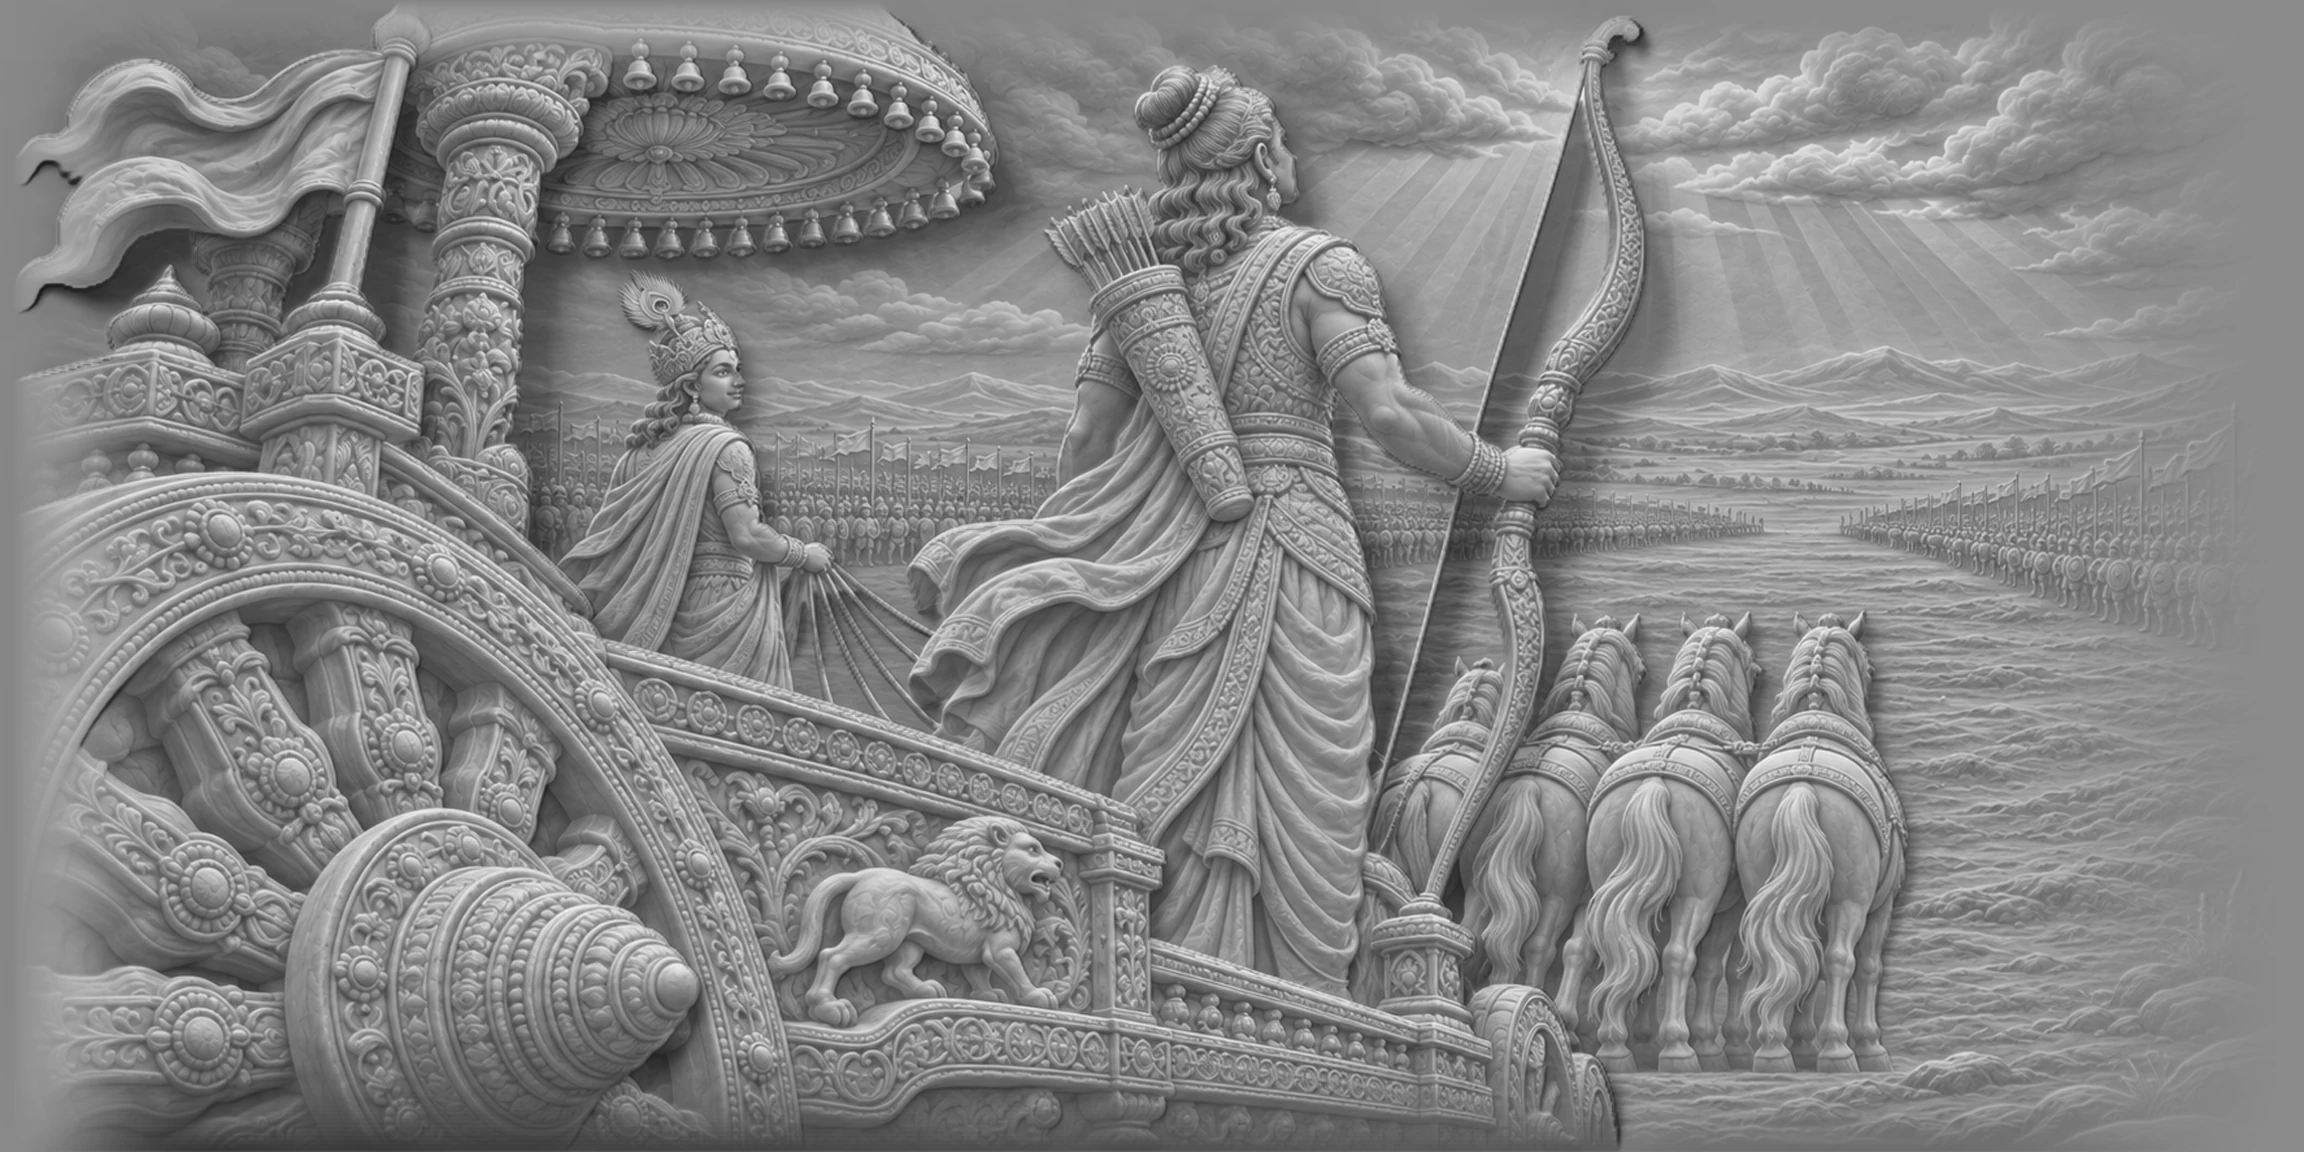
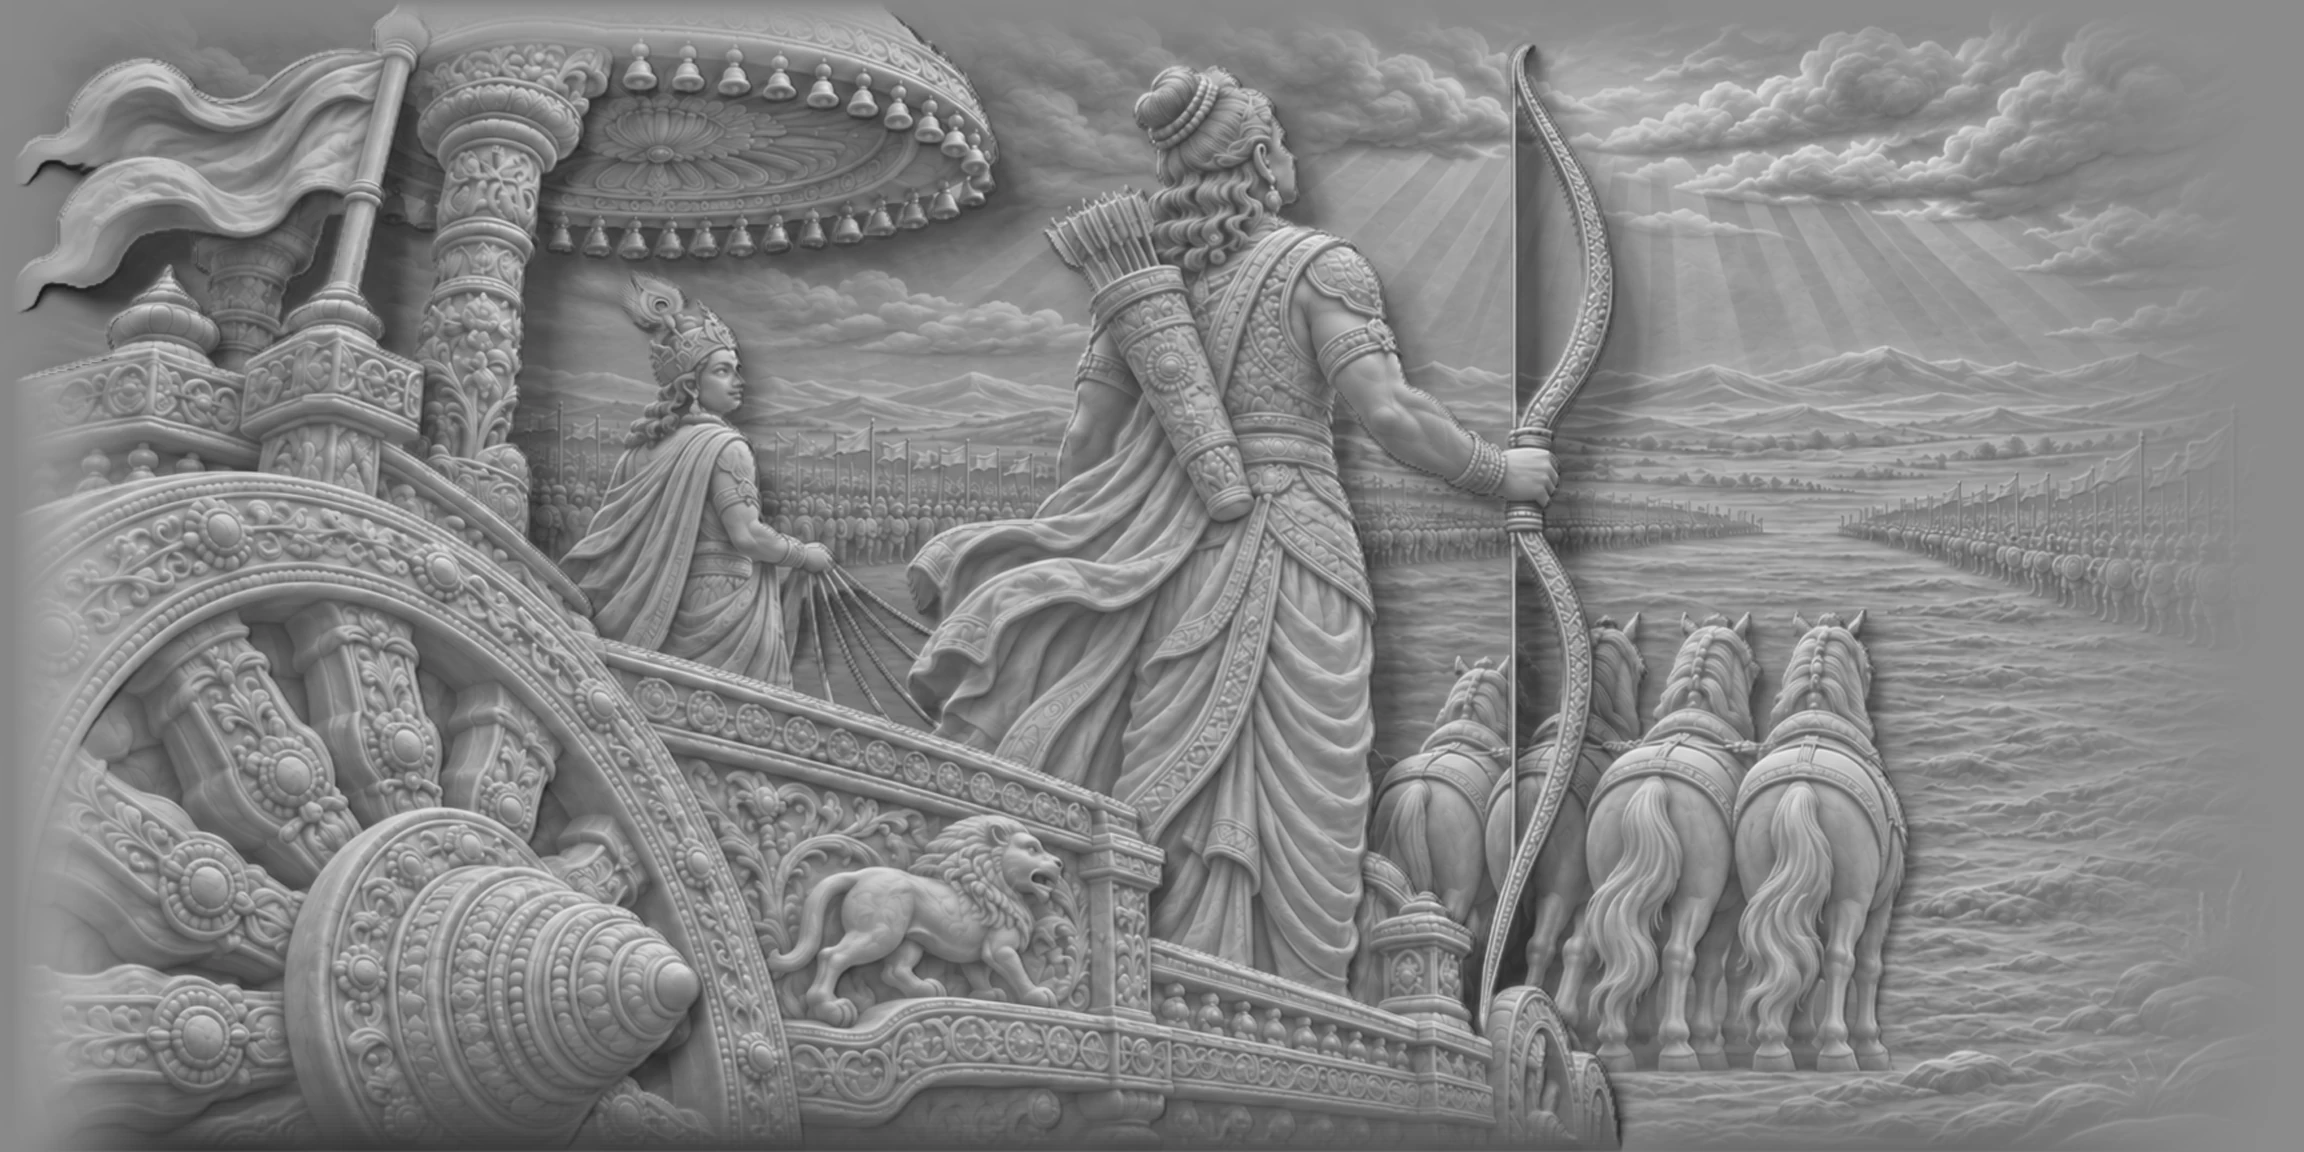
Carvings rise into view, load ahead, and bows are fixed
Each panel now rises out of the plaster when it comes on screen and
settles to a soft resting relief instead of flashing in flat; panels
wait for all their textures, fade in, load further ahead and are
prefetched after the intro. Chapter paintings are a centred frame about
half the screen tall, and chapter card V is back in the chapter list.
Arjuna's bow is corrected in the Forest header, the svayamvara and the
closing Gita carving.

diff --git a/src/relief.ts b/src/relief.ts
@@ -26,6 +26,15 @@ const WALL_H = 8.04;
 const DEPTH = 0.9;
 const CAMERA_DISTANCE = 15;
 const CAMERA_FOV = 30;
+// Panels start loading this many screen heights ahead, and are released
+// beyond the second distance, so scrolling rarely meets an unloaded wall.
+const LOAD_AHEAD = 3.2;
+const RELEASE_BEYOND = 5.5;
+// Entrance of each carving: seconds to rise, hold, settle; resting depth.
+const RISE_IN = 2.4;
+const RISE_HOLD = 1.4;
+const RISE_SETTLE = 2.6;
+const REST_RELIEF = 0.42;
 
 const quadVertex = /* glsl */ `
   varying vec2 vUv;
@@ -94,6 +103,7 @@ const wallVertex = /* glsl */ `
   uniform float uStill;
   uniform float uReveal;
   uniform float uLift;
+  uniform float uRise;
   uniform float uPresence;
   uniform float uBoost;
   uniform float uScrollWorld;
@@ -106,7 +116,7 @@ const wallVertex = /* glsl */ `
     vec2 screenUv = (undeformed.xy / undeformed.w + 1.0) * 0.5;
     vec4 field = texture2D(tField, screenUv);
     float extrude = mix(field.b, field.a, 0.5);
-    extrude = max(extrude, max(uStill, max(uReveal, uLift)) * 0.5) + uBoost * 0.5;
+    extrude = max(extrude, max(uStill, max(max(uReveal, uRise), uLift)) * 0.5) + uBoost * 0.5;
     float inside = step(0.0, uv.x) * step(uv.x, 1.0) * step(0.0, uv.y) * step(uv.y, 1.0);
     // Presence dissolves the whole carving back into flat plaster (0) or
     // condenses it out of the wall (1) when one scene hands over to the next.
@@ -135,6 +145,7 @@ const wallFragment = /* glsl */ `
   uniform float uStill;
   uniform float uReveal;
   uniform float uLift;
+  uniform float uRise;
   uniform float uPresence;
   uniform float uReady;
   uniform float uBoost;
@@ -153,7 +164,7 @@ const wallFragment = /* glsl */ `
     float extrude = mix(field.b, field.a, 0.5);
     // Fast scrolling swells the geometry (vertex shader) but does not light up
     // carving that attention has not reached, so shading ignores uBoost.
-    extrude = max(extrude, max(uStill, max(uReveal, uLift))) * uReady * uPresence;
+    extrude = max(extrude, max(uStill, max(max(uReveal, uRise), uLift))) * uReady * uPresence;
 
     // Lighting was baked offline at five extrusion depths. The field walks
     // through those stages in 0.2 intervals, so shade always belongs to the
@@ -267,6 +278,10 @@ type SceneState = {
   material: THREE.ShaderMaterial;
   uniforms: Record<string, THREE.IUniform>;
   abort?: AbortController;
+  /** Seconds since this panel began rising into view; -1 while waiting. */
+  riseTime: number;
+  /** Seconds since every texture arrived, for a soft fade-in. */
+  readyTime: number;
 };
 
 /**
@@ -298,6 +313,8 @@ export function mountRelief(container: HTMLElement, specs: SceneSpec[]) {
   let lastTime = 0;
   let elapsed = 0;
   let reveal = 0;
+  // Entrances wait until the intro loader has lifted, so none is missed.
+  let entrancesArmed = false;
 
   container.dataset.reliefState = "loading";
   delete container.dataset.fallback;
@@ -400,6 +417,7 @@ export function mountRelief(container: HTMLElement, specs: SceneSpec[]) {
     uTexel: { value: new THREE.Vector2(1 / 1152, 1 / 576) },
     uReady: { value: 0 },
     uLift: { value: 0 },
+    uRise: { value: 0 },
     uPresence: { value: 1 },
   });
   const makeMaterial = (uniforms: Record<string, THREE.IUniform>) =>
@@ -434,7 +452,15 @@ export function mountRelief(container: HTMLElement, specs: SceneSpec[]) {
     const mesh = new THREE.Mesh(panelGeometry, material);
     mesh.visible = false;
     scene.add(mesh);
-    return { spec, status: "idle", mesh, material, uniforms };
+    return {
+      spec,
+      status: "idle",
+      mesh,
+      material,
+      uniforms,
+      riseTime: -1,
+      readyTime: 0,
+    };
   });
 
   const camera = new THREE.PerspectiveCamera(CAMERA_FOV, 2, 5, 30);
@@ -461,6 +487,9 @@ export function mountRelief(container: HTMLElement, specs: SceneSpec[]) {
       u[key].value = blank;
     }
     u.uReady.value = 0;
+    u.uRise.value = 0;
+    state.riseTime = -1;
+    state.readyTime = 0;
     state.status = "idle";
   };
 
@@ -470,10 +499,23 @@ export function mountRelief(container: HTMLElement, specs: SceneSpec[]) {
     state.abort = abort;
     const name = state.spec.name;
     const u = state.uniforms;
+    // A panel only counts as ready once its height AND all five lighting
+    // stages have arrived; showing it earlier flashes half-lit plaster.
+    let pending = 6;
+    const arrived = () => {
+      pending -= 1;
+      if (pending > 0 || disposed || abort.signal.aborted) return;
+      u.uReady.value = 0;
+      state.readyTime = 0;
+      state.status = "ready";
+      if (first && !contextLost) container.dataset.reliefState = "ready";
+      render();
+    };
     [1, 2, 3, 4, 5].forEach((index) => {
       u[`tStage${index}`].value = data(
         `${import.meta.env.BASE_URL}relief/${name}-stage${index}.webp`,
         false,
+        arrived,
       );
     });
     loadHeight(
@@ -484,10 +526,7 @@ export function mountRelief(container: HTMLElement, specs: SceneSpec[]) {
         if (disposed || abort.signal.aborted) return texture.dispose();
         u.tHeight.value = texture;
         u.uTexel.value.set(1 / texture.image.width, 1 / texture.image.height);
-        u.uReady.value = 1;
-        state.status = "ready";
-        if (first && !contextLost) container.dataset.reliefState = "ready";
-        render();
+        arrived();
       })
       .catch(() => {
         if (disposed || abort.signal.aborted) return;
@@ -570,10 +609,17 @@ export function mountRelief(container: HTMLElement, specs: SceneSpec[]) {
       state.mesh.visible =
         state.status === "ready" &&
         (shot?.pinned ? (shot.presence ?? 1) > 0.002 : distance < 1.2);
-      if (distance < 1.6 && state.status === "idle")
+      if (distance < LOAD_AHEAD && state.status === "idle")
         loadScene(state, index === 0);
-      else if (distance > 3 && state.status !== "idle" && index !== 0)
+      else if (
+        distance > RELEASE_BEYOND &&
+        state.status !== "idle" &&
+        index !== 0
+      )
         releaseScene(state);
+      // Leaving the screen re-arms the entrance, so a panel rises again
+      // each time the visitor comes back to it.
+      if (distance > 1.1) state.riseTime = -1;
     });
   };
 
@@ -685,6 +731,38 @@ export function mountRelief(container: HTMLElement, specs: SceneSpec[]) {
     onContextRestored,
   );
 
+  // Each panel, once fully loaded and on screen, rises out of the plaster,
+  // holds at full depth for a breath, then settles to a soft resting relief
+  // so the wall never reads as empty. The cursor still raises it fully.
+  const animateEntrance = (state: SceneState, dt: number) => {
+    const u = state.uniforms;
+    if (state.status !== "ready") return;
+    state.readyTime += dt;
+    u.uReady.value = Math.min(1, state.readyTime / 0.5);
+    // The cold open drives its own camera and stays dark until the cursor.
+    if (state.spec.shot || !entrancesArmed) return;
+    const rect = state.spec.anchor.getBoundingClientRect();
+    const offset = Math.abs(rect.top + rect.height / 2 - viewHeight / 2);
+    if (state.riseTime < 0) {
+      if (offset / viewHeight > 0.45) {
+        u.uRise.value = Math.max(0, u.uRise.value - dt * 0.5);
+        return;
+      }
+      state.riseTime = 0;
+    }
+    state.riseTime += dt;
+    const t = state.riseTime;
+    const ease = (x: number) => x * x * (3 - 2 * x);
+    let rise: number;
+    if (t < RISE_IN) rise = ease(t / RISE_IN);
+    else if (t < RISE_IN + RISE_HOLD) rise = 1;
+    else {
+      const k = Math.min(1, (t - RISE_IN - RISE_HOLD) / RISE_SETTLE);
+      rise = 1 + (REST_RELIEF - 1) * ease(k);
+    }
+    u.uRise.value = rise;
+  };
+
   function tick(now: number) {
     if (disposed) return;
     const dtMs = Math.min(64, now - (lastTime || now));
@@ -692,6 +770,7 @@ export function mountRelief(container: HTMLElement, specs: SceneSpec[]) {
     if (!document.hidden && !contextLost) {
       const dt = dtMs / 1000;
       place();
+      for (const state of scenes) animateEntrance(state, dt);
       // Fast scrolling swells the whole visible carving, then it settles.
       const speed = Math.min(
         1,
@@ -747,10 +826,9 @@ export function mountRelief(container: HTMLElement, specs: SceneSpec[]) {
       shared.uStill.value = paused ? 1 : 0;
       render();
     },
+    /** Start the carvings' entrances (called as the intro lifts). */
     reveal() {
-      reveal = 1;
-      shared.uReveal.value = 1;
-      render();
+      entrancesArmed = true;
     },
     dispose() {
       disposed = true;

diff --git a/index.html b/index.html
@@ -162,6 +162,27 @@
               ></span>
             </span>
           </a>
+          <a class="gateway-link chapter-card" href="svarga/">
+            <span class="chapter-number">V</span>
+            <span class="art-wrap">
+              <img
+                src="/art/svarga.webp"
+                width="1536"
+                height="1024"
+                alt="On a knife-edge ridge of snow at the roof of the world, Yudhishthira stands beside a stray dog as golden light breaks through the clouds."
+                loading="lazy"
+              />
+            </span>
+            <span class="gateway-caption">
+              <span
+                >Ashes &amp; the Ascent. The last man and the stray dog.</span
+              >
+              <span class="gateway-enter"
+                >Enter the last chapter
+                <span class="diagonal-arrow" aria-hidden="true"></span
+              ></span>
+            </span>
+          </a>
         </div>
       </section>
       <!-- The House of Kuru: who is whose, across seven generations. -->
@@ -194,31 +215,7 @@
             <span class="gen-label">II</span>
             <div class="gen-row">
               <article class="person person--key">
-                <h3>
-                  <a href="hastinapura/#vow">Bhīṣma</a>
-                  <a class="gateway-link chapter-card" href="svarga/">
-                    <span class="chapter-number">V</span>
-                    <span class="art-wrap">
-                      <img
-                        src="/art/svarga.webp"
-                        width="1536"
-                        height="1024"
-                        alt="On a knife-edge ridge of snow at the roof of the world, Yudhishthira stands beside a stray dog as golden light breaks through the clouds."
-                        loading="lazy"
-                      />
-                    </span>
-                    <span class="gateway-caption">
-                      <span
-                        >Ashes &amp; the Ascent. The last man and the stray
-                        dog.</span
-                      >
-                      <span class="gateway-enter"
-                        >Enter the last chapter
-                        <span class="diagonal-arrow" aria-hidden="true"></span
-                      ></span>
-                    </span>
-                  </a>
-                </h3>
+                <h3><a href="hastinapura/#vow">Bhīṣma</a></h3>
                 <p>Son of Gaṅgā. Took the terrible vow. Falls on day ten.</p>
               </article>
               <article class="person">

diff --git a/src/main.ts b/src/main.ts
@@ -104,11 +104,41 @@ runLoader({
   onDone() {
     lenis?.start();
     soundToggle.hidden = false;
-    // The carving surfaces once as the intro lifts, then settles back
-    // (not on the home page, which starts in darkness).
-    if (!paused && !coldOpen) relief?.reveal();
+    // Each carving rises out of the plaster as it comes into view, starting
+    // with the first one as the intro lifts.
+    // Wait for the intro to finish fading so the first rise is seen whole.
+    window.setTimeout(() => relief?.reveal(), paused ? 0 : 650);
+    prefetchWall();
   },
 });
+
+// After the intro, quietly warm the browser cache with every panel on this
+// page, nearest first, one at a time, so later scenes are ready the moment
+// they are reached instead of showing bare plaster. Skipped on data-saver.
+function prefetchWall() {
+  const connection = (
+    navigator as Navigator & { connection?: { saveData?: boolean } }
+  ).connection;
+  if (connection?.saveData) return;
+  const base = `${import.meta.env.BASE_URL}relief/`;
+  const urls = sceneAnchors
+    .filter((anchor) => !anchor.closest("details:not([open])"))
+    .flatMap((anchor) => {
+      const name = anchor.dataset.scene!;
+      return [
+        `${base}${name}-height.png`,
+        ...[1, 2, 3, 4, 5].map((i) => `${base}${name}-stage${i}.webp`),
+      ];
+    });
+  const next = () => {
+    const url = urls.shift();
+    if (!url) return;
+    fetch(url, { priority: "low" } as RequestInit)
+      .catch(() => undefined)
+      .finally(() => setTimeout(next, 30));
+  };
+  next();
+}
 lenis?.on("scroll", ({ velocity }: { velocity: number }) =>
   sound.setEnergy(Math.abs(velocity) / 45),
 );

diff --git a/src/style.css b/src/style.css
@@ -1642,3 +1642,26 @@ html.is-loading body {
     grid-column: 1;
   }
 }
+
+/* Chapter paintings sit in the middle of the screen rather than filling it:
+   a framed cinematic window onto the chapter, about half the view tall. */
+.gateway-link .art-wrap {
+  display: block;
+}
+.gateway-link,
+.chapter-list,
+.battlefield {
+  width: min(70%, 960px, calc(52svh * 1.95));
+  margin-left: auto;
+  margin-right: auto;
+}
+@media (max-width: 1023px) {
+  .gateway-link,
+  .chapter-list,
+  .battlefield {
+    width: min(100%, calc(52svh * 1.95));
+  }
+}
+.chapter-list .chapter-card {
+  width: 100%;
+}

diff --git a/tests/experience.spec.ts b/tests/experience.spec.ts
@@ -341,6 +341,9 @@ test("chapters link in story order", async ({ page }) => {
   ).toHaveAttribute("href", "../svarga/");
   await page.goto("/");
   await expect(page.locator(".chapter-card")).toHaveCount(5);
+  // Every card lives in the chapter list, none stray into the family tree.
+  await expect(page.locator(".chapter-list > .chapter-card")).toHaveCount(5);
+  await expect(page.locator(".lineage .chapter-card")).toHaveCount(0);
 });
 
 test("the forest chapter opens the Yaksha's questions one by one", async ({

diff --git a/HANDOFF.md b/HANDOFF.md
@@ -304,6 +304,24 @@ Pages built and tested: `/vana/` (Act IV), Parts V–VI on `/kurukshetra/`, `/sv
 - Memory notes `inspect-renders` and `realistic-scenes`.
 - Download images only by fetching the image itself (`window.__dl`). `models/take.sh` refuses files older than 3 minutes, after it once grabbed one of the user's own downloads (since restored).
 
+## Milestone 10: loading, entrances, painting size, bows (15 November 2026)
+
+The user reported four problems; all are fixed and deployed.
+
+- **Carvings appeared flat, "without effect", on opening a chapter.**
+  - Cause: `relief.reveal()` set the whole wall to full depth in one frame as the intro lifted, then faded it, so it read as a flat picture.
+  - Fix: each panel now has its own entrance (`uRise` uniform; `animateEntrance` in `src/relief.ts`). Once it is fully loaded and centred on screen, it rises out of the plaster over 2.4 s, holds for 1.4 s, then settles to a soft resting relief (`REST_RELIEF` 0.42) so the wall is never blank. The cursor still lifts it fully.
+  - Leaving the screen re-arms the entrance. The first entrance waits 650 ms after the loader lifts, so it is seen.
+- **White, empty wall where carvings should be.**
+  - A panel now counts as ready only when its height map AND all five lighting stages have arrived, and it fades in over 0.5 s.
+  - Panels load 3.2 screens ahead (was 1.6) and are released beyond 5.5.
+  - After the intro, `prefetchWall()` in `src/main.ts` warms the cache with every panel on the page, one at a time, nearest first. It is skipped when data-saver is on.
+- **Chapter paintings filled the screen.** Gateway, chapter-card and Kurukṣetra paintings are now a centred 1.95:1 frame about 52% of the view tall. Chapter card V had been pasted inside the family tree (under Bhīṣma's name); it is back in the chapter list, and a test now guards this.
+- **Bows.**
+  - Forest header: redone twice. The first edit still had a hooked tip and mismatched limbs, and the user caught it. Arjuna now holds a plain, symmetrical strung bow upright in his left hand.
+  - Also fixed: `swayamvara` (the lower limb snaked into the pool) and `scene6` (hooked, then forked top tip).
+  - Rule: zoom on each bow tip; both tips plain and matching, and the string visible from tip to tip.
+
 ## GPU speed-ups (14 November 2026)
 
 The user asked to use the GPU (GTX 1650) to speed up the work.
